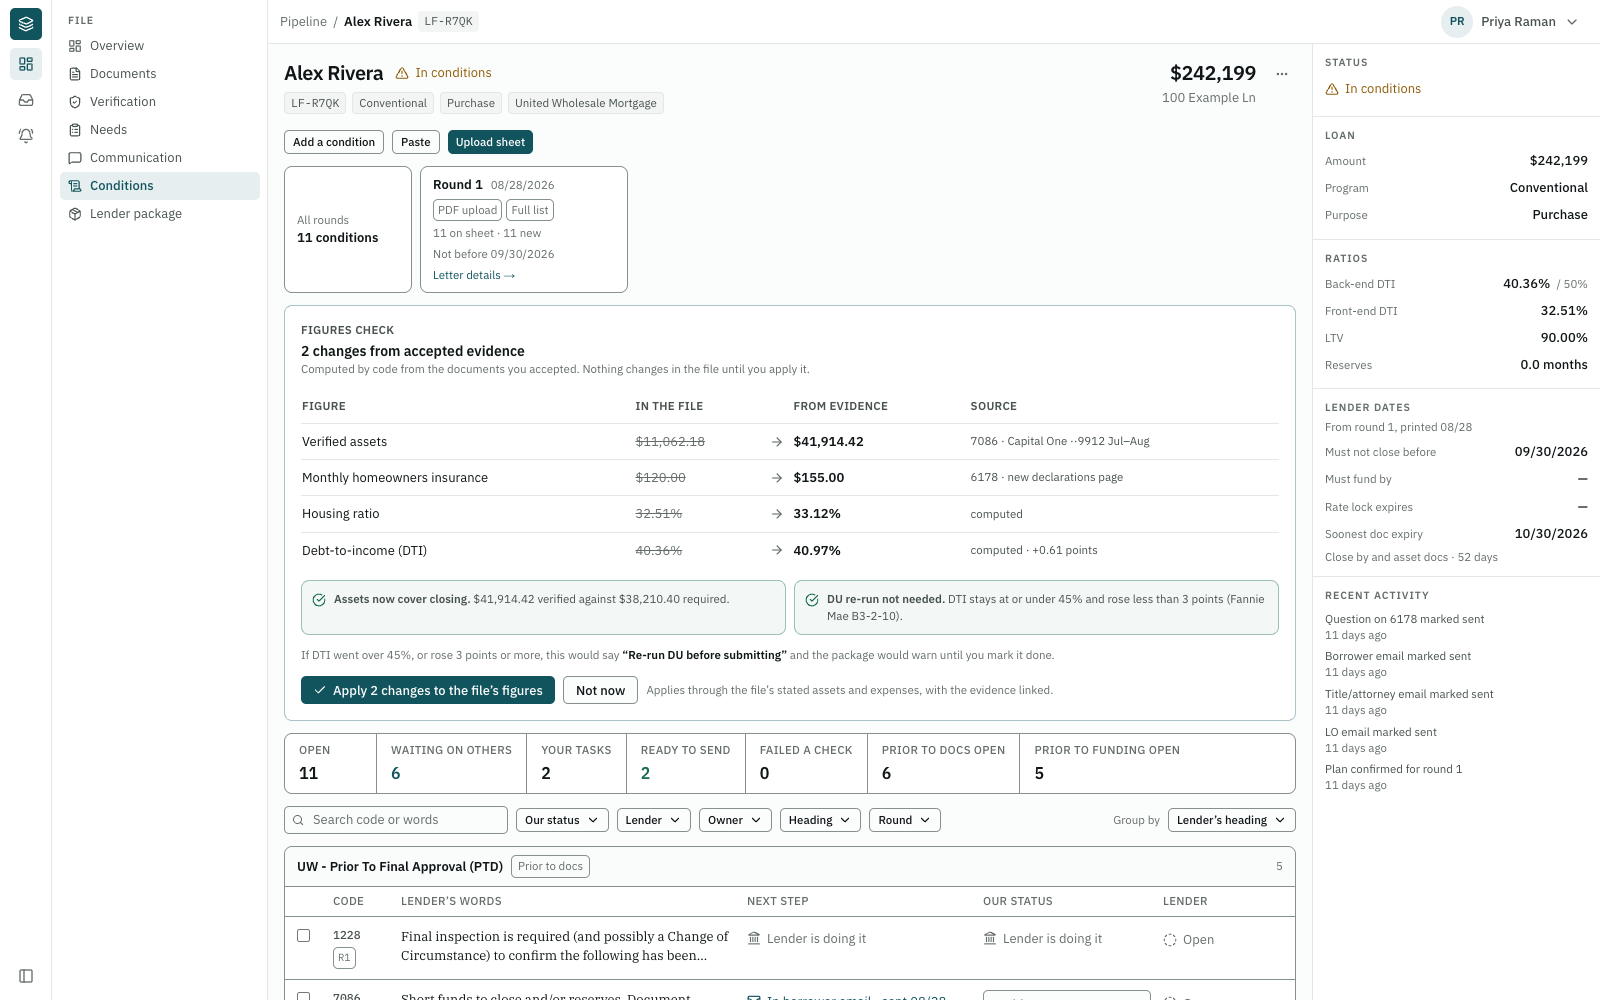
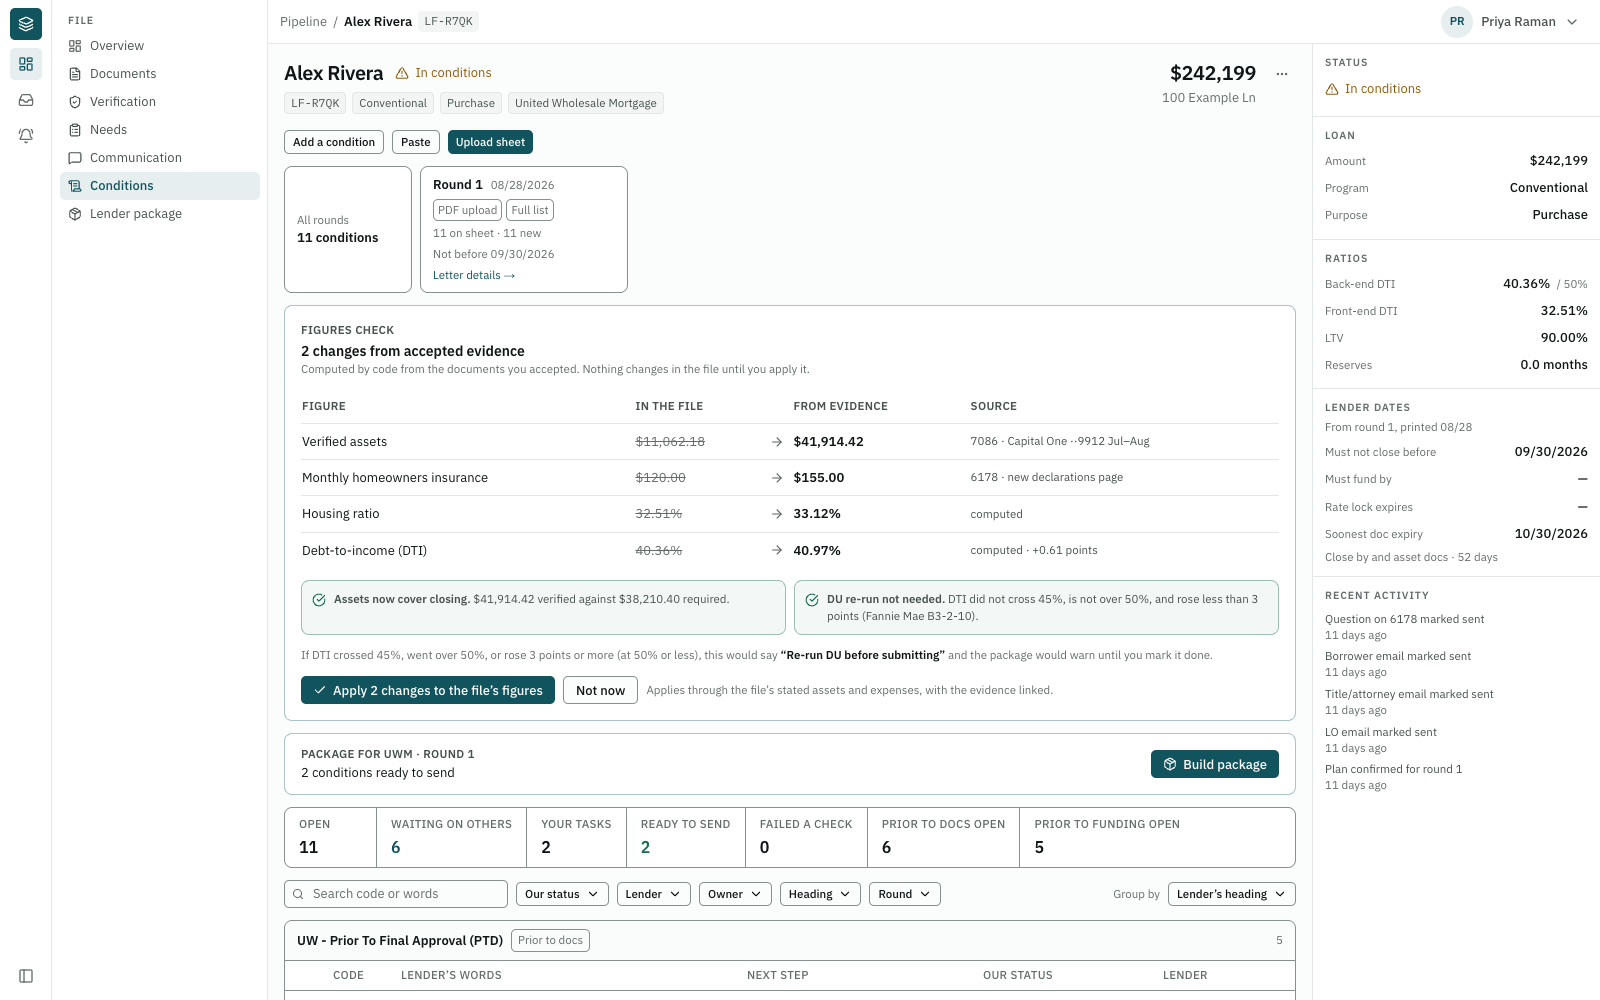
LP-936 review: no findings; the three limbs hold as a rule, not just in S3-09
- Review section in LP-936.md: the owner's four rows, 47 -> 51 (over 50% alone),
  47 -> 50, 44.9 -> 45.0 and 48 -> 46 checked; two further mutations fail tests.
  The three interpretation choices (over 50% on the level alone, both reasons at
  44 -> 51, the wording under the existing heading) judged right. The reviewer
  records that the old callout sentence passed LP-924's review wrongly.
- Progress row REVIEWED (build 0c8090e6); S3-09 review shot re-taken.

Written by the review session (mortgageboss-ai-cf); committed by the builder at the product owner's instruction.

diff --git a/docs/tickets/LP-936.md b/docs/tickets/LP-936.md
@@ -59,3 +59,66 @@ is unchanged.
 - **Backend, full suite on the finished tree:** 8697 passed (8691 + 6 new), 1 failed (the named sonnet
   test), 8 skipped, 1 xfailed. ruff, format and mypy (567 files) are clean. No migration.
 - **Frontend:** vitest 2124 / 2124; tsc and biome are clean; the build exits 0.
+## Review (of `0c8090e6`)
+
+**No findings. All three choices are right, and the owner's table is satisfied exactly.**
+
+### The rule, run against the guide's own table and the boundaries
+
+| old → new | flags? | why |
+|---|---|---|
+| 35 → 40 | yes | rises 5 points, recalculated DTI ≤ 50 |
+| 44 → 46 | yes | crosses 45% |
+| 46 → 48 | **no** | no crossing, 2 points |
+| 46 → 50 | yes | rises 4 points, recalculated DTI ≤ 50 |
+| 47 → 50 | yes | 3 points at exactly 50 — the limb still applies |
+| **47 → 51** | yes | **over 50% only**; the points limb correctly does NOT apply |
+| 50 → 51 | yes | over 50% |
+| 44.9 → 45.0 | no | "exceed 45%" is strict, and 45.0 does not exceed it |
+| 48 → 46 | no | improves |
+
+All four of the owner's rows land, and 47 → 51 is the one that proves the parenthetical was implemented
+rather than paraphrased: above 50%, the 3-point limb is skipped and the over-50% reason stands alone.
+Two mutations of my own confirm it — removing the over-50% limb fails two tests, and turning its `elif`
+into an `if` (so the points limb applies above 50 too) fails one.
+
+### The three choices
+
+**(a) Over-50% firing on the level alone is right.** "Always" is the owner's word, and the alternative
+— requiring movement — would leave a file sitting above 50% silently unflagged while evidence lands on
+it. Flagging more is the safe direction for a prompt whose only cost is a second look. One cosmetic
+note: at 52 → 52 the reason renders "the DTI is over 50% (52% → 52%)", an arrow between two identical
+numbers; dropping the arrow when nothing moved would read better, and nothing depends on it.
+
+**(b) Both reasons at 44 → 51 is right.** Both limbs are true, they do not contradict, and the panel
+lists reasons rather than picking one.
+
+**(c) The wording under the existing heading is right**, and it costs no deviation: the README pins
+only *"DU re-run not needed… (Fannie Mae B3-2-10)"* with the middle elided, so the sentence between is
+free.
+
+### The S3-09 callout, and a correction to my own LP-924 review
+
+The old text — *"DTI stays at or under 45% and rose less than 3 points"* — was true of the seeded state
+(40.36% → 40.97%) and false as a statement of the rule: a 46% → 48% file would have shown "DU re-run
+not needed" beside a sentence claiming the DTI stays at or under 45%. **I reviewed that sentence in
+LP-924 and passed it**, because I checked it against the screen in front of me and the README's pinned
+fragment, and did not ask whether it stayed true in the other states where the callout renders. That is
+the "UI copy is an untested claim" trap, and I walked into it.
+
+The new text reads *"DTI did not cross 45%, is not over 50%, and rose less than 3 points"* — true as a
+rule, not just here — and the explaining line names all three limbs with the parenthetical: *"If DTI
+crossed 45%, went over 50%, or rose 3 points or more (at 50% or less)…"*. Read on my own re-shot
+S3-09; the rest of the screen is unchanged and still matches.
+
+### Records
+
+STOP AND ASK 2 is answered in the progress file with the owner's date; ADR-415 carries the amendment
+("Accepted (LP-924). **Amended (LP-936, 2026-09-29)**"); the glossary's **DU re-run** entry states all
+three limbs with her examples and **correctly drops its "verify with domain expert" marker**, which was
+the whole point of the question.
+
+### Counts
+
+Backend **8697 passed, 1 failed** (the named pre-existing test) — exact; `mypy app` clean over 567
+files; `test_figures_check.py` 17 passed. Frontend **2124 / 2124**, tsc clean.

diff --git a/docs/phases/phase4.5-progress.md b/docs/phases/phase4.5-progress.md
@@ -281,7 +281,7 @@ the "Today" table's clock. Actual and review shots are committed under
 | LP-924 The figures check | REVIEWED | `2f848c5f` + follow-up `e7afa680` | the commits titled `LP-924 review:` and `LP-924 follow-up review:` | S3-09 shot and walked by the reviewer: matches every line | review found 1 (Apply ignored the baseline she saw); the builder fixed it and the fix is verified, including that it does not over-refuse. STOP AND ASK 2 open on the 45% reading |
 | LP-925 Package, submit, lender settings | REVIEWED | `b415c136` | the commit titled `LP-925 review:` | S3-10 and S3-11 shot and walked by the reviewer: both match, with D10 and D11 | no defects; the ungated lender-settings routes judged correct; a note-check boundary recorded |
 | LP-935 Stage 3 close | REVIEWED | `5b1582cf` | the commit titled `LP-935 review:` | every screen (24 shots: both sessions, all twelve) | review found 2, fixed: the mortgagee-clause term asserted unsourced domain claims; a decision she may want to overturn was missing from the table |
-| LP-936 DU tolerance (closes STOP AND ASK 2) | AWAITING_REVIEW | (this commit) | | S3-09 wording | the owner's answer, 2026-09-29 |
+| LP-936 DU tolerance (STOP AND ASK 2) | REVIEWED | `0c8090e6` | the commit titled `LP-936 review:` | S3-09 re-shot by the reviewer: the new callout is true as a rule, not only in this state | no findings; the owner's table and the 50% parenthetical both verified, including 47→51 |
 | LP-937 Superseded failures | PENDING | | | S3-12 | |
 | LP-938 Library fixes (AS-04, the review table) | PENDING | | | none | |
 | LP-939 Real-model trial | SKIPPED | | | none | skipped for now by the owner, 2026-09-29 |
